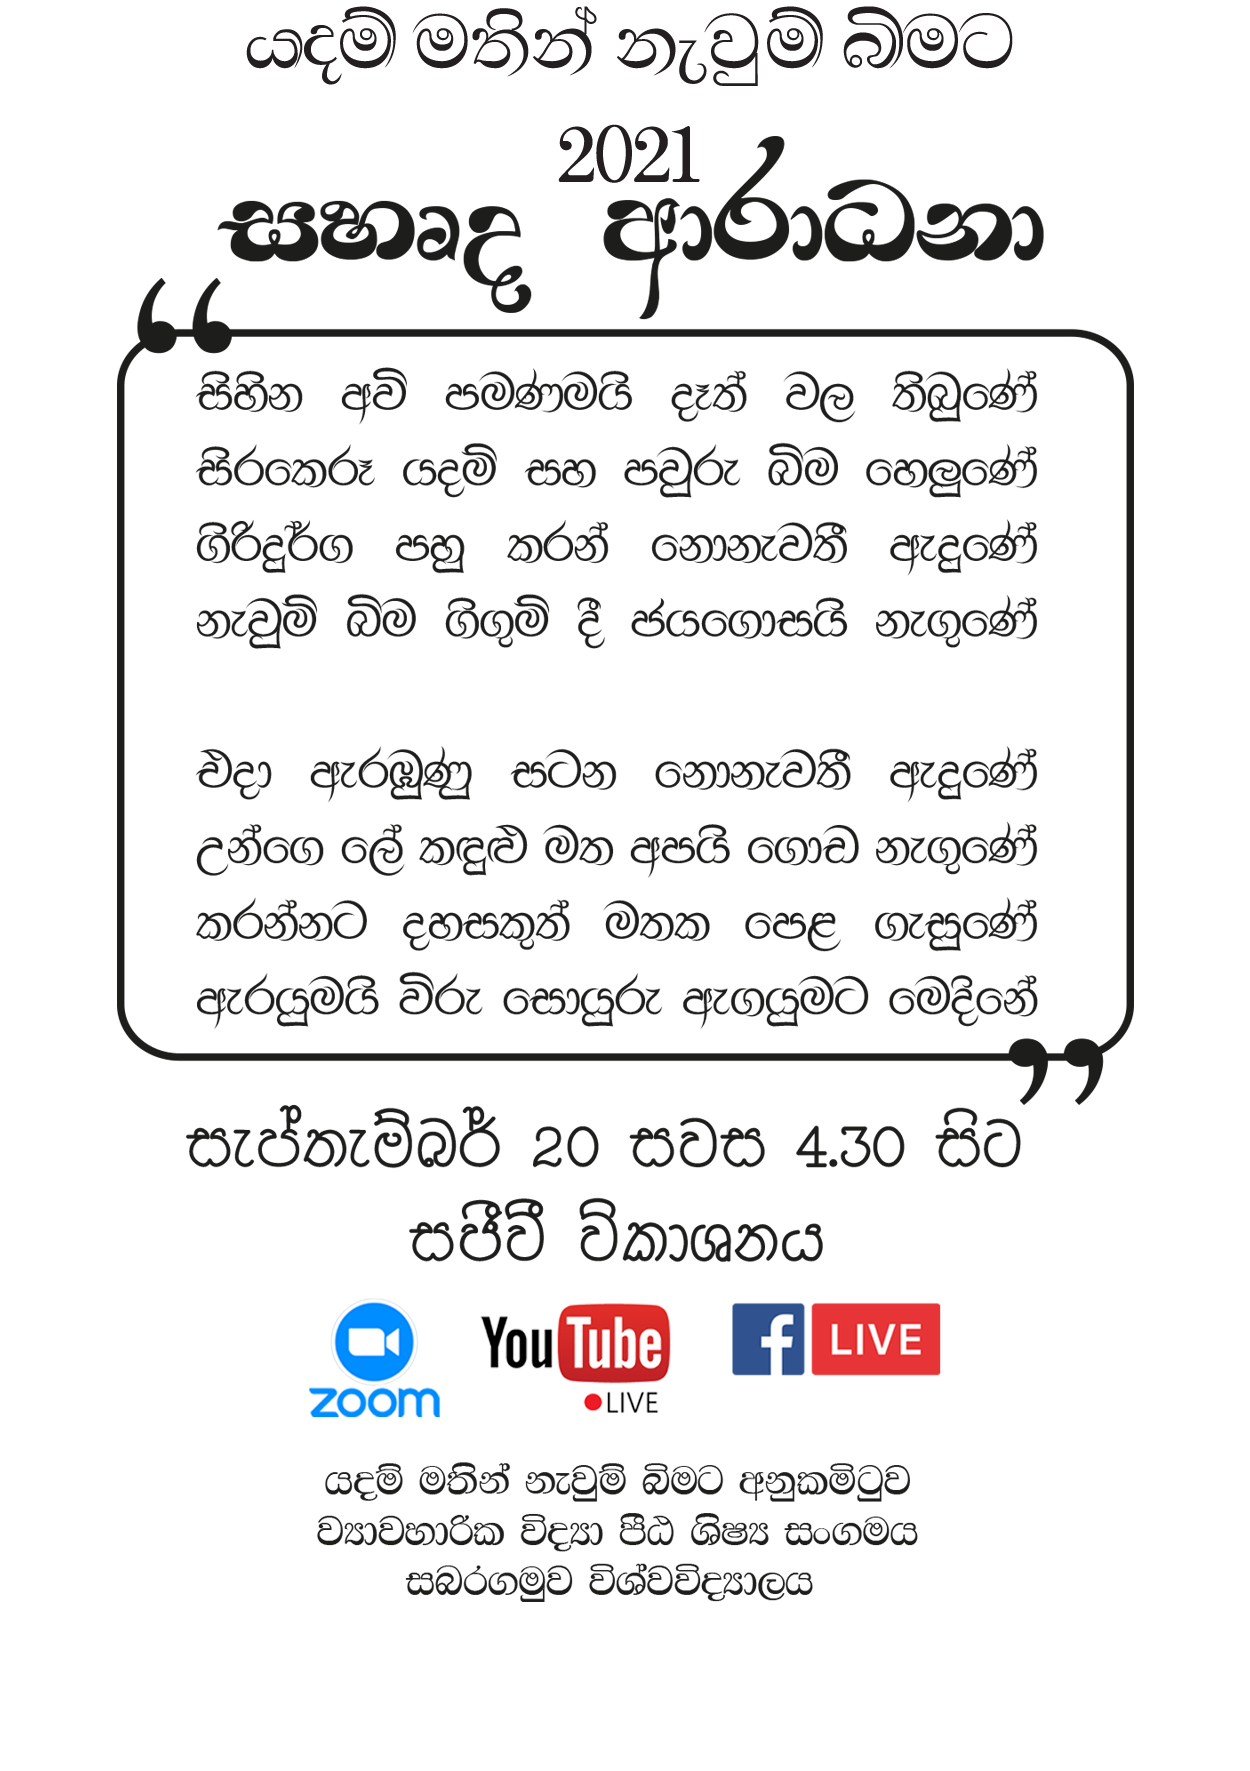
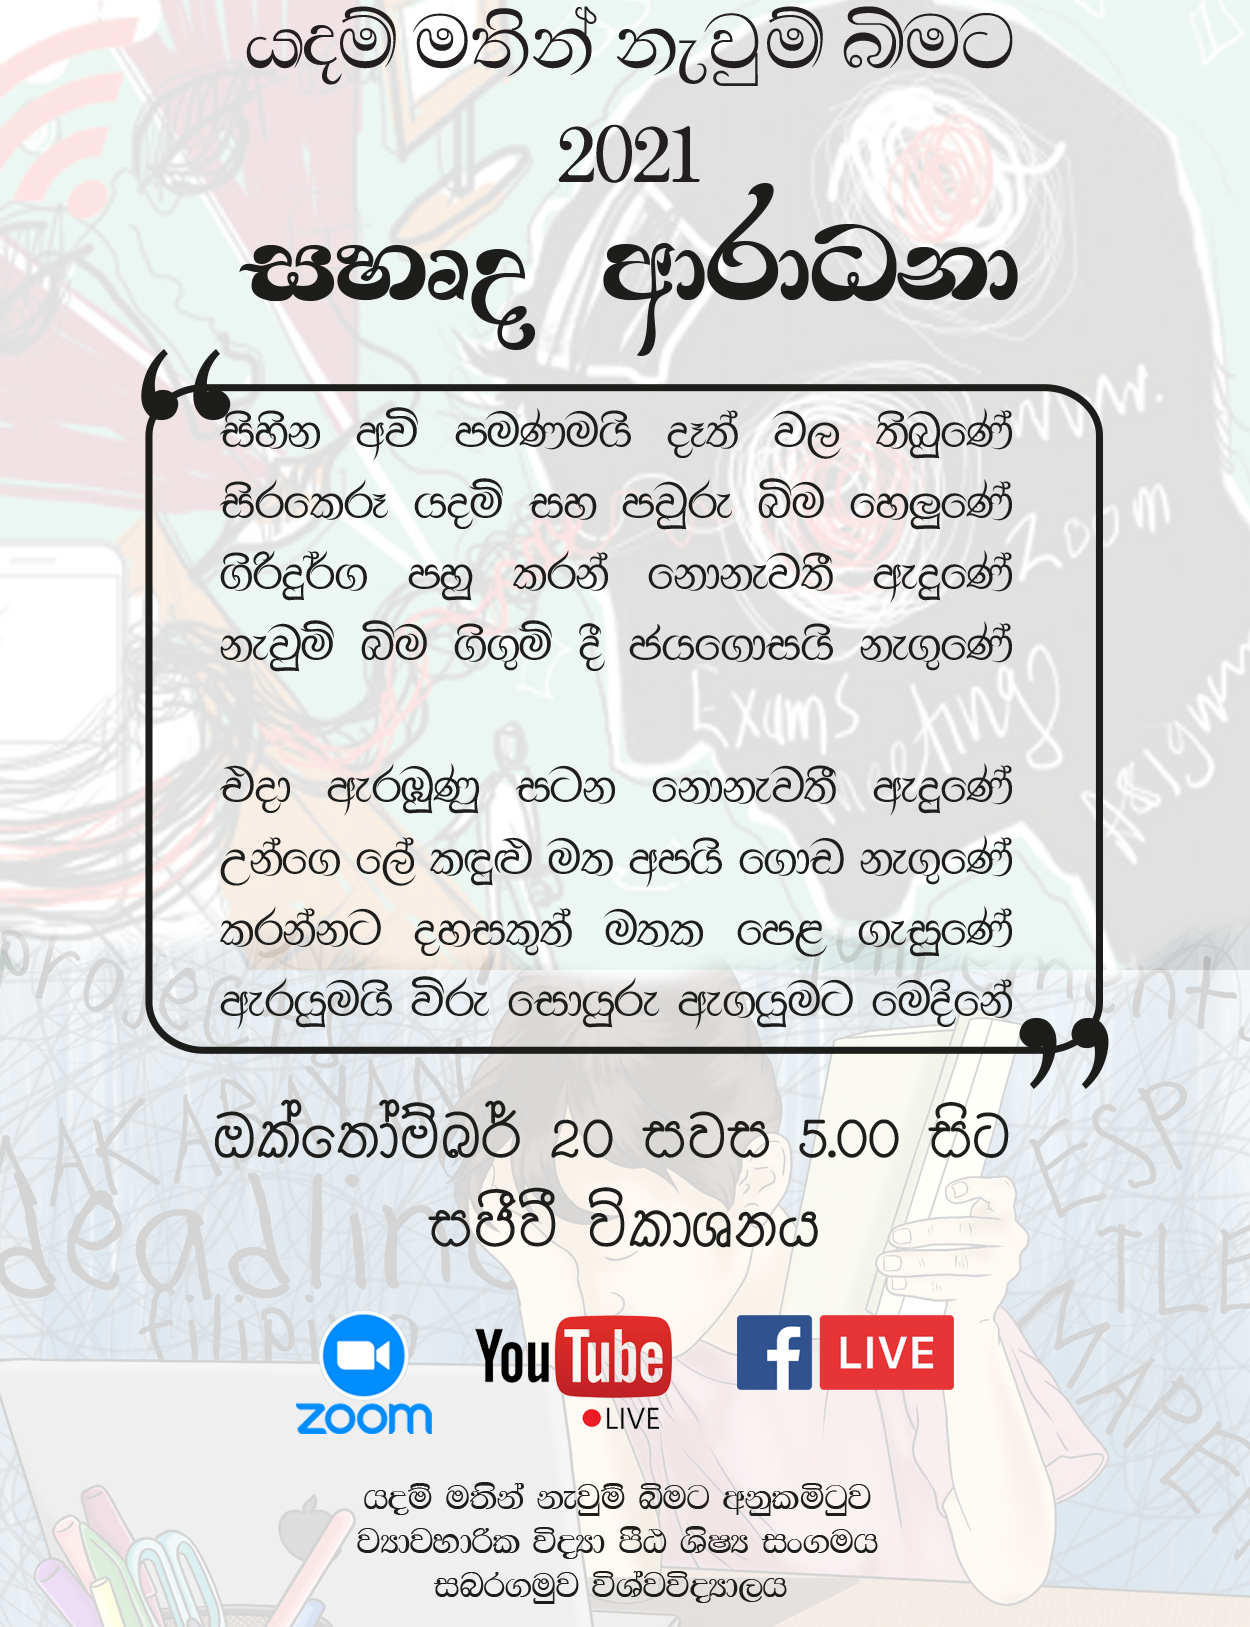
some changes done

diff --git a/style.css b/style.css
@@ -120,7 +120,7 @@ z-index: 5;
     position: absolute;
     width: 394px;
     height: 284px;
-    background: #fffd79;
+    background-image: url("/background.jpg");
     top: 8px;
     left: 3px;
     border-left: 1px solid #ccc;
@@ -144,7 +144,7 @@ z-index: 5;
     width: 392px;
     height: 50%;
     left: -1px;
-    background:  #fffd79;
+    background-image: url("/background.jpg");
     border-left: 1px solid #ccc;
     border-right: 1px solid #ccc;
    /*background: url('http://www.placecage.com/c/400/143');*/
